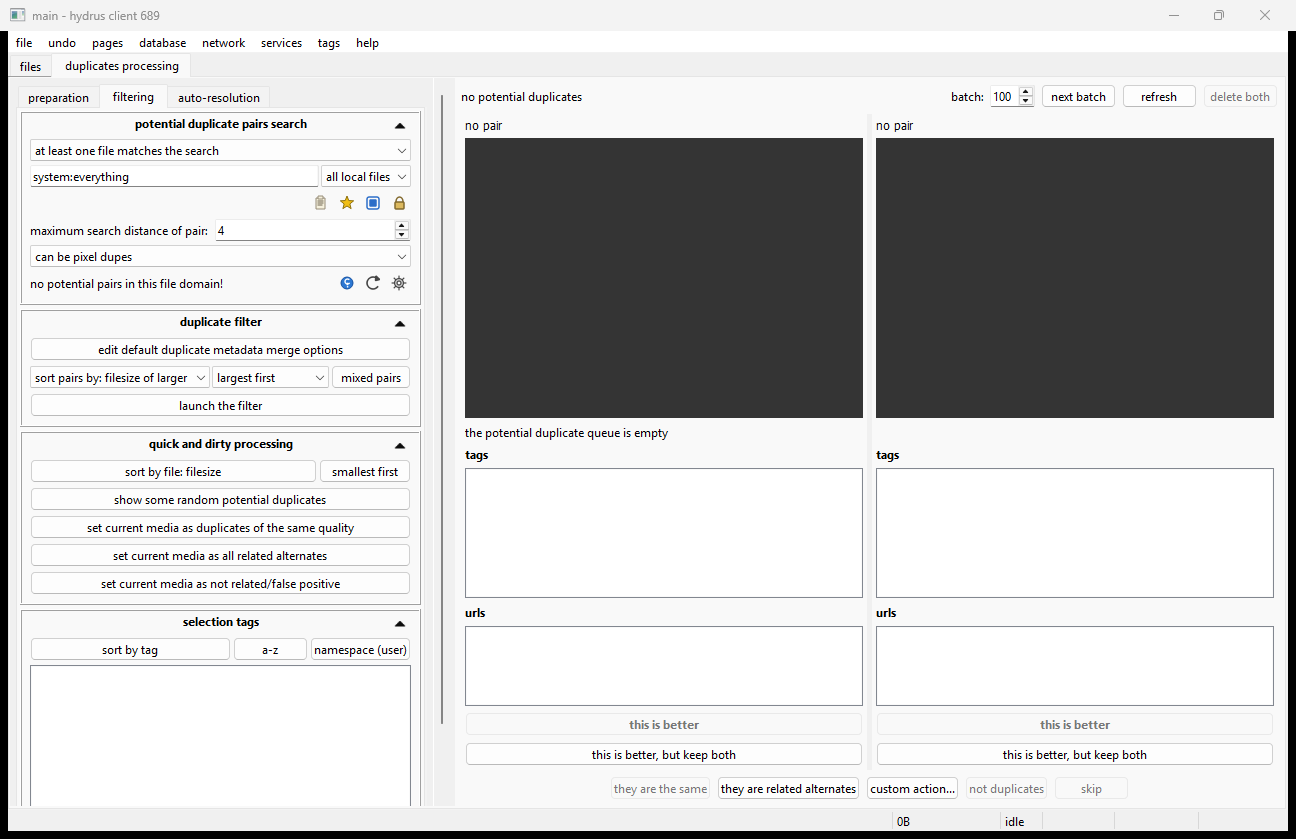
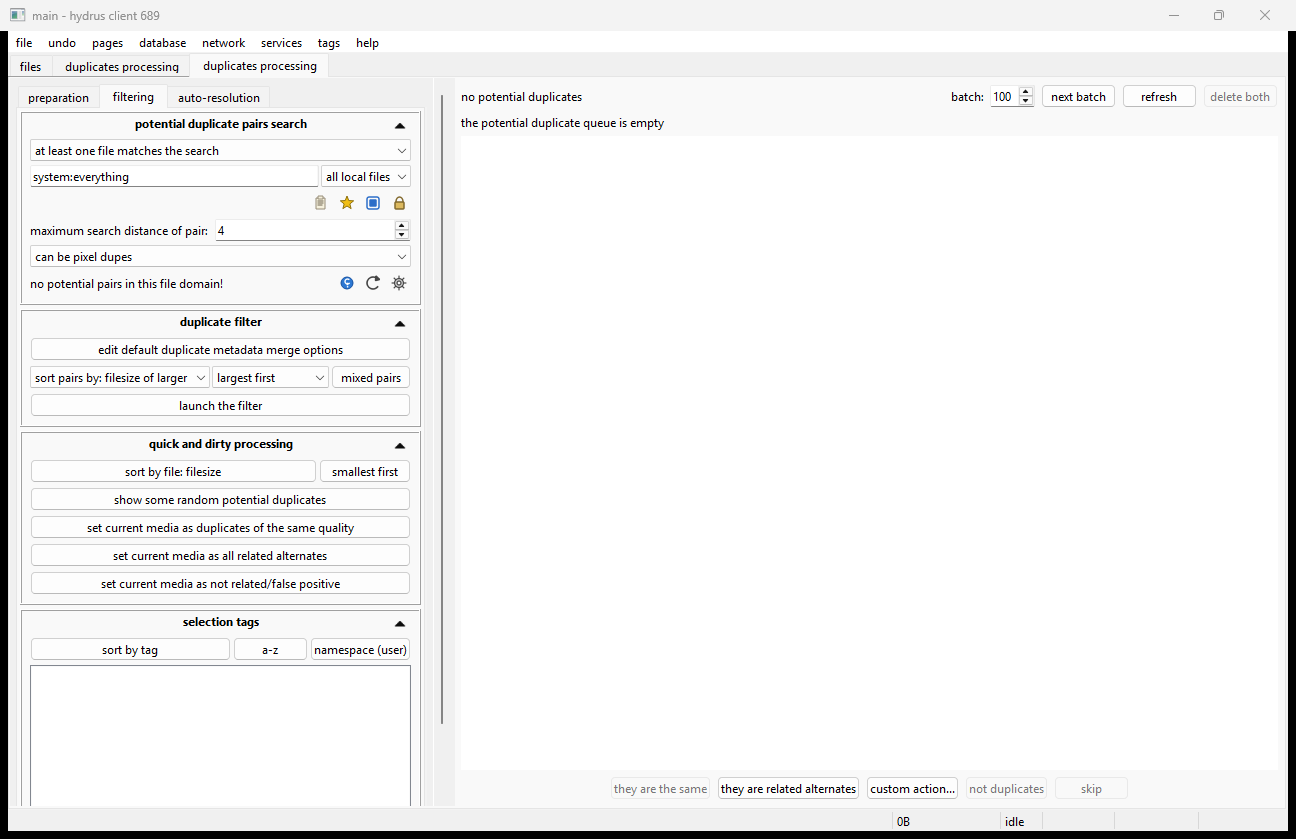
WS-08: media results panel страницы duplicates

diff --git a/hydrus_client/src/gui/qt/bridge.cpp b/hydrus_client/src/gui/qt/bridge.cpp
@@ -526,6 +526,7 @@ void HydrusCanvas::wheelEvent(QWheelEvent *event) {
 
 HydrusThumbnailGrid::HydrusThumbnailGrid(HydrusMainWindow *main_window, HydrusQueryPage *query_page)
     : QListWidget(query_page), main(main_window), page(query_page) {
+    page_id_value = query_page->page_id();
     setObjectName(QStringLiteral("HydrusThumbnailGrid"));
     setViewMode(QListWidget::IconMode);
     setResizeMode(QListWidget::Adjust);
@@ -548,7 +549,7 @@ HydrusThumbnailGrid::HydrusThumbnailGrid(HydrusMainWindow *main_window, HydrusQu
         "QListWidget#HydrusThumbnailGrid::item:selected { border: 1px solid #01111a; background: #d9f2ff; }"));
 
     connect(this, &QListWidget::currentItemChanged, this, [this](QListWidgetItem *current, QListWidgetItem *) {
-        if (main->building || current == nullptr) {
+        if (main->building || current == nullptr || page == nullptr) {
             return;
         }
 
@@ -576,7 +577,7 @@ HydrusThumbnailGrid::HydrusThumbnailGrid(HydrusMainWindow *main_window, HydrusQu
         const QByteArray payload = QJsonDocument(hashes).toJson(QJsonDocument::Compact);
         main->notify(
             QStringLiteral("selection_changed"),
-            page->page_id(),
+            page_id_value,
             QString::fromUtf8(payload));
     });
 
@@ -589,7 +590,70 @@ HydrusThumbnailGrid::HydrusThumbnailGrid(HydrusMainWindow *main_window, HydrusQu
 
         if (!hash.isEmpty()) {
             QByteArray hash_bytes = hash.toUtf8();
-            QByteArray page_bytes = page->page_id().toUtf8();
+            QByteArray page_bytes = page_id_value.toUtf8();
+            app_action(*main, rust::Str("open_viewer", 11), rust::Str(page_bytes.constData(), page_bytes.size()), rust::Str(hash_bytes.constData(), hash_bytes.size()));
+        }    });
+}
+
+HydrusThumbnailGrid::HydrusThumbnailGrid(HydrusMainWindow *main_window, HydrusDuplicatesPage *dup_page_ptr)
+    : QListWidget(dup_page_ptr), main(main_window), page(nullptr), dup_page(dup_page_ptr) {
+    page_id_value = dup_page_ptr->page_id();
+    setObjectName(QStringLiteral("HydrusThumbnailGrid"));
+    setViewMode(QListWidget::IconMode);
+    setResizeMode(QListWidget::Adjust);
+    setMovement(QListWidget::Static);
+    setUniformItemSizes(true);
+    setSpacing(4);
+    setWordWrap(false);
+    setTextElideMode(Qt::ElideNone);
+    setIconSize(QSize(150, 125));
+    setGridSize(QSize(162, 137));
+    setSelectionMode(QAbstractItemView::ExtendedSelection);
+    setDragEnabled(true);
+    setAcceptDrops(true);
+    setDragDropMode(QAbstractItemView::DragDrop);
+    setVerticalScrollMode(QAbstractItemView::ScrollPerPixel);
+    setHorizontalScrollBarPolicy(Qt::ScrollBarAlwaysOff);
+    setStyleSheet(QStringLiteral(
+        "QListWidget#HydrusThumbnailGrid { background-color: #ffffff; border: none; }"
+        "QListWidget#HydrusThumbnailGrid::item { border: 1px solid #dfe3e6; background: #ffffff; }"
+        "QListWidget#HydrusThumbnailGrid::item:selected { border: 1px solid #01111a; background: #d9f2ff; }"));
+
+    connect(this, &QListWidget::currentItemChanged, this, [this](QListWidgetItem *current, QListWidgetItem *) {
+        if (main->building || current == nullptr) {
+            return;
+        }
+        // no focused hash tracking for the duplicates page
+    });
+
+    connect(this, &QListWidget::itemSelectionChanged, this, [this]() {
+        if (main->building) {
+            return;
+        }
+
+        QJsonArray hashes;
+
+        for (const QString &hash : selected_hashes()) {
+            hashes.append(hash);
+        }
+
+        const QByteArray payload = QJsonDocument(hashes).toJson(QJsonDocument::Compact);
+        main->notify(
+            QStringLiteral("selection_changed"),
+            page_id_value,
+            QString::fromUtf8(payload));
+    });
+
+    connect(this, &QListWidget::itemDoubleClicked, this, [this](QListWidgetItem *item) {
+        if (main->building || item == nullptr) {
+            return;
+        }
+
+        const QString hash = page_hash_from_item(item);
+
+        if (!hash.isEmpty()) {
+            QByteArray hash_bytes = hash.toUtf8();
+            QByteArray page_bytes = page_id_value.toUtf8();
             app_action(*main, rust::Str("open_viewer", 11), rust::Str(page_bytes.constData(), page_bytes.size()), rust::Str(hash_bytes.constData(), hash_bytes.size()));
         }    });
 }
@@ -6144,79 +6208,12 @@ HydrusDuplicatesPage::HydrusDuplicatesPage(HydrusMainWindow *main_window, const 
     header->addWidget(delete_both);
     layout->addLayout(header);
 
-    auto *splitter = new QSplitter(Qt::Horizontal, this);
+    media_status = new QLabel(right);
+    media_status->setWordWrap(true);
+    layout->addWidget(media_status);
 
-    auto make_side = [&](bool left) {
-        auto *side = new QWidget(splitter);
-        auto *side_layout = new QVBoxLayout(side);
-        side_layout->setContentsMargins(4, 4, 4, 4);
-
-        side->setContextMenuPolicy(Qt::CustomContextMenu);
-        connect(side, &QWidget::customContextMenuRequested, this, [this, side, left](const QPoint &pos) {
-            show_group_actions(left ? QStringLiteral("a") : QStringLiteral("b"), side->mapToGlobal(pos));
-        });
-
-        auto *hash_label = new QLabel(side);
-        hash_label->setWordWrap(true);
-        hash_label->setStyleSheet(QStringLiteral("font-family: monospace;"));
-        side_layout->addWidget(hash_label);
-
-        auto *canvas = new HydrusCanvas(side);
-        canvas->setMinimumSize(280, 280);
-        side_layout->addWidget(canvas, 1);
-
-        auto *info_label = new QLabel(side);
-        info_label->setWordWrap(true);
-        side_layout->addWidget(info_label);
-
-        auto *tags_label = new QLabel(QStringLiteral("tags"), side);
-        tags_label->setStyleSheet(QStringLiteral("font-weight: bold;"));
-        side_layout->addWidget(tags_label);
-        auto *tags = new QListWidget(side);
-        tags->setSelectionMode(QAbstractItemView::NoSelection);
-        side_layout->addWidget(tags, 1);
-
-        auto *urls_label = new QLabel(QStringLiteral("urls"), side);
-        urls_label->setStyleSheet(QStringLiteral("font-weight: bold;"));
-        side_layout->addWidget(urls_label);
-        auto *urls = new QListWidget(side);
-        urls->setSelectionMode(QAbstractItemView::NoSelection);
-        urls->setMaximumHeight(80);
-        side_layout->addWidget(urls);
-
-        auto *keep = new QPushButton(QStringLiteral("this is better"), side);
-        keep->setStyleSheet(QStringLiteral("font-weight: bold;"));
-        keep->setToolTip(QStringLiteral("this is better, and delete the other"));
-        side_layout->addWidget(keep);
-
-        auto *keep_both = new QPushButton(QStringLiteral("this is better, but keep both"), side);
-        keep_both->setToolTip(QStringLiteral("set that this file is better and keep both files"));
-        side_layout->addWidget(keep_both);
-
-        if (left) {
-            hash_a = hash_label;
-            canvas_a = canvas;
-            info_a = info_label;
-            tags_a = tags;
-            urls_a = urls;
-            keep_a = keep;
-            keep_a_both = keep_both;
-        } else {
-            hash_b = hash_label;
-            canvas_b = canvas;
-            info_b = info_label;
-            tags_b = tags;
-            urls_b = urls;
-            keep_b = keep;
-            keep_b_both = keep_both;
-        }
-    };
-
-    make_side(true);
-    make_side(false);
-    splitter->setStretchFactor(0, 1);
-    splitter->setStretchFactor(1, 1);
-    layout->addWidget(splitter, 1);
+    grid = new HydrusThumbnailGrid(main, this);
+    layout->addWidget(grid, 1);
 
     auto *bottom = new QHBoxLayout();
     same = new QPushButton(QStringLiteral("they are the same"), this);
@@ -6237,10 +6234,6 @@ HydrusDuplicatesPage::HydrusDuplicatesPage(HydrusMainWindow *main_window, const 
     sidebar->setMinimumHeight(sidebar_layout->minimumSize().height());
     page_splitter->setSizes({440, 872});
 
-    connect(keep_a, &QPushButton::clicked, this, [this]() { act(QStringLiteral("duplicates_keep_a")); });
-    connect(keep_a_both, &QPushButton::clicked, this, [this]() { act(QStringLiteral("duplicates_keep_a_keep")); });
-    connect(keep_b, &QPushButton::clicked, this, [this]() { act(QStringLiteral("duplicates_keep_b")); });
-    connect(keep_b_both, &QPushButton::clicked, this, [this]() { act(QStringLiteral("duplicates_keep_b_keep")); });
     connect(same, &QPushButton::clicked, this, [this]() { act(QStringLiteral("duplicates_same")); });
     connect(alternates, &QPushButton::clicked, this, [this]() { act(QStringLiteral("duplicates_alternates")); });
     connect(custom_action, &QPushButton::clicked, this, [this]() { act(QStringLiteral("duplicates_custom_action")); });
@@ -6538,55 +6531,32 @@ void HydrusDuplicatesPage::update_state(const QJsonObject &state) {
 
     if (!pair_value.isObject()) {
         distance->setText(QString());
-        hash_a->setText(QStringLiteral("no pair"));
-        hash_b->setText(QStringLiteral("no pair"));
-        info_a->setText(QStringLiteral("the potential duplicate queue is empty"));
-        info_b->clear();
-        tags_a->clear();
-        tags_b->clear();
-        urls_a->clear();
-        urls_b->clear();
-        canvas_a->clear_image();
-        canvas_b->clear_image();
 
-        for (QPushButton *button : {keep_a, keep_b, same, not_duplicates, skip, delete_both}) {
+        for (QPushButton *button : {same, not_duplicates, skip, delete_both}) {
             button->setEnabled(false);
         }
-
-        return;
-    }
-
-    for (QPushButton *button : {keep_a, keep_b, same, not_duplicates, skip, delete_both}) {
-        button->setEnabled(true);
-    }
-
-    const QJsonObject pair = pair_value.toObject();
-    const QJsonObject a = pair.value(QStringLiteral("a")).toObject();
-    const QJsonObject b = pair.value(QStringLiteral("b")).toObject();
-
-    distance->setText(QStringLiteral("distance %1").arg(pair.value(QStringLiteral("distance")).toInt()));
-
-    auto fill_side = [](const QJsonObject &object, QLabel *hash, QLabel *info, HydrusCanvas *canvas, QListWidget *tags, QListWidget *urls) {
-        hash->setText(object.value(QStringLiteral("hash")).toString());
-        info->setText(object.value(QStringLiteral("info")).toString());
-
-        tags->clear();
-        tags->addItems(json_to_strings(object.value(QStringLiteral("tags")).toArray()));
-
-        urls->clear();
-        urls->addItems(json_to_strings(object.value(QStringLiteral("urls")).toArray()));
-
-        const QString preview = object.value(QStringLiteral("preview")).toString();
-
-        if (!preview.isEmpty() && canvas->load_image(preview)) {
-            return;
+    } else {
+        for (QPushButton *button : {same, not_duplicates, skip, delete_both}) {
+            button->setEnabled(true);
         }
 
-        canvas->clear_image();
-    };
+        const QJsonObject pair = pair_value.toObject();
+        distance->setText(QStringLiteral("distance %1").arg(pair.value(QStringLiteral("distance")).toInt()));
+    }
 
-    fill_side(a, hash_a, info_a, canvas_a, tags_a, urls_a);
-    fill_side(b, hash_b, info_b, canvas_b, tags_b, urls_b);
+    const QJsonArray media = state.value(QStringLiteral("media")).toArray();
+
+    if (grid != nullptr) {
+        grid->set_media(media);
+    }
+
+    if (media_status != nullptr) {
+        if (media.isEmpty()) {
+            media_status->setText(state.value(QStringLiteral("media_empty_status")).toString());
+        } else {
+            media_status->setText(state.value(QStringLiteral("media_count_status")).toString());
+        }
+    }
 }
 
 

diff --git a/hydrus_client/src/gui/qt/bridge.hpp b/hydrus_client/src/gui/qt/bridge.hpp
@@ -189,6 +189,7 @@ private:
 class HydrusThumbnailGrid : public QListWidget {
 public:
     HydrusThumbnailGrid(HydrusMainWindow *main, HydrusQueryPage *page);
+    HydrusThumbnailGrid(HydrusMainWindow *main, HydrusDuplicatesPage *page);
 
     void set_media(const QJsonArray &media);
     void set_focused(const QString &hash);
@@ -207,6 +208,8 @@ protected:
 private:
     HydrusMainWindow *main = nullptr;
     HydrusQueryPage *page = nullptr;
+    HydrusDuplicatesPage *dup_page = nullptr;
+    QString page_id_value;
     bool masonry = false;
     bool horizontal = false;
     int scale_percent = 100;
@@ -910,6 +913,8 @@ private:
     HydrusMainWindow *main = nullptr;
     QString id;
     QLabel *status = nullptr;
+    HydrusThumbnailGrid *grid = nullptr;
+    QLabel *media_status = nullptr;
     QLabel *distance = nullptr;
     QComboBox *dupe_search_type = nullptr;
     QLineEdit *search_query_1 = nullptr;

diff --git a/hydrus_client/docs/GUI_PORT_PLAN.md b/hydrus_client/docs/GUI_PORT_PLAN.md
@@ -197,16 +197,13 @@ Definition of Done для задачи.
   `docs/images/python_duplicates_page.png` (Python). Осталось: media panel
   результатов, полноценный preparation-панель, auto-resolution-редактор,
   групповой режим и точные иконки.
-- 2026-10-31 — media panel страницы duplicates сверен с живым Python v692
-  (WS-14.8): правая часть страницы теперь отдаёт список миниатюр potential
-  duplicate pairs (уникальные хэши пар в порядке отфильтрованной очереди) через
-  `render::duplicates_json` (`media`, `media_empty_status`, `media_count_status`);
-  добавлены `duplicates::pair_thumbnail_hashes`, `duplicates_media_empty_status`,
-  `duplicates_media_count_status` и 4 unit-теста. Скриншоты:
-  `docs/images/duplicates_media_panel.png` (Rust) и
-  `docs/images/python_duplicates_media_panel.png` (Python). Осталось: правая
-  часть по-прежнему показывает сравнение пары; полная замена на thumbnail grid
-  и перенос действий (keep/same/...) на выделение в media panel ещё впереди;
+- 2026-10-31 — media results panel страницы duplicates реализован (WS-08 /
+  WS-14.8): правая часть теперь использует существующий thumbnail grid
+  (`HydrusThumbnailGrid`) и показывает уникальные хэши пар в порядке
+  отфильтрованной очереди; статус `media_empty_status` / `media_count_status`,
+  двойной клик открывает viewer, действия same/not duplicates/skip/delete both
+  сохранены. Скриншоты: `docs/images/duplicates_media_panel.png` (Rust) и
+  `docs/images/python_duplicates_media_panel.png` (Python). Осталось:
   preparation/auto-resolution tabs и групповой режим остаются заглушками.
 - 2026-10-31 — менеджер import folders сверен с живым Python v692. В Python это
   не страница, а диалог `file -> import/export folders -> manage import
